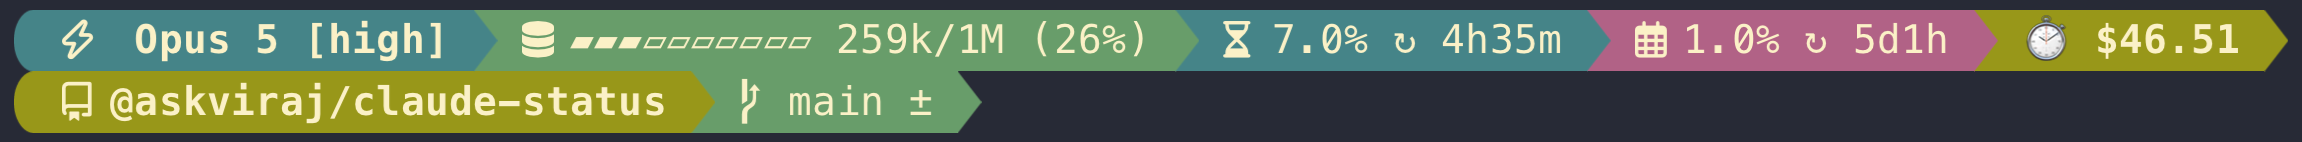
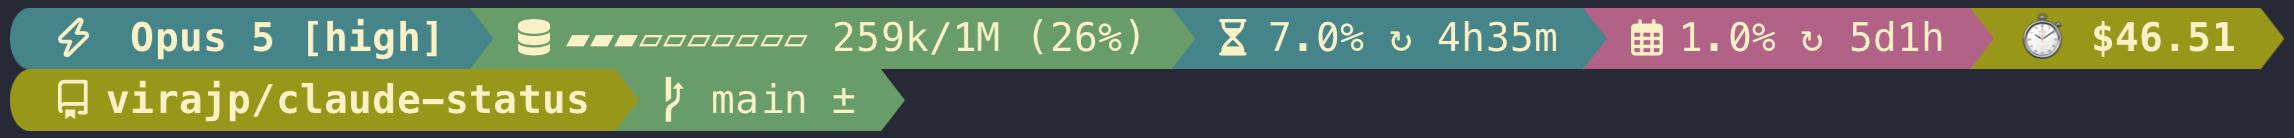
docs(site): use the re-rendered screenshot and point the readme at it
The hero image showed `@askviraj/claude-status` -- the npm scope retired two
cycles ago -- because it was captured before `.config/claude-status.json` was
corrected. Re-rendered by the maintainer and swapped into the site, the repo's
tracked `assets/` copy, and the readme.

The readme's URL also moves from `cdn.virajp.me` to `cdn.virajp.dev`: the old
host still serves the stale image, so leaving the link alone would have kept
the wrong picture on the most-read page in the repo.

Worth recording: the new render independently corroborates this cycle's `branch`
fix. It shows ` main ±` with no worktree glyph, which is what the corrected
documentation says an ordinary checkout draws -- and what the previous text,
the contract and `segments.rs`'s own comment all denied.

Also worth recording: `cdn.virajp.dev` resolves while the apex and
`claude-status.virajp.dev` do not, so the Cloudflare zone is live and already
serving a subdomain. Closing criterion 2 is a DNS record and two secrets, not a
from-scratch setup.

Claude-Session: https://claude.ai/code/session_019srMD3MVgMf534Tm44XYEh

diff --git a/docs/plans/2026-08-23-website/01-site.md b/docs/plans/2026-08-23-website/01-site.md
@@ -462,12 +462,20 @@ built two vacuous probes of its own before a control caught them.
   `@media` breakpoint, nav as plain anchors, no `<script>` — is verified in the
   *built* output, but it only says the page is not built in a way that
   guarantees failure on a phone.
-- **The hero screenshot still shows `@askviraj/claude-status`**, the retired npm
-  scope, on both the site and the readme. `.config/claude-status.json` was
-  corrected this cycle, so a re-render fixes it; the recipe is above and cannot
-  be automated (Nerd Font private-use glyphs, no headless renderer with that
-  font). A test asserts the file exists and is a real PNG; **nothing can assert
-  it is current.**
+- **The hero screenshot was re-rendered by the maintainer and is now correct** —
+  it reads `virajp/claude-status`, the npm scope is gone, and it independently
+  corroborates this round's `branch` fix by showing `main ±` with no worktree
+  glyph. Swapped into `site/static/`, the repo's tracked `assets/` copy, and the
+  readme, whose URL also moved from `cdn.virajp.me` to `cdn.virajp.dev` — the
+  old host still serves the stale image. **A test asserts the file exists and is
+  a real PNG; nothing can assert it is current**, and it cannot be regenerated
+  non-interactively (Nerd Font private-use glyphs, no headless renderer here has
+  the font). The recipe is above.
+- **`cdn.virajp.dev` resolves even though the apex and
+  `claude-status.virajp.dev` do not** — so the Cloudflare zone is live and
+  already serving a subdomain. Adding the `claude-status` record is a small step
+  rather than a from-scratch setup, which lowers the cost of closing
+  criterion 2.
 - **The readme now routes all user documentation through five links to a domain
   that does not resolve.** Recorded as a scope consequence rather than a defect,
   but the cost lands on users until a `site-v*` tag ships.

diff --git a/readme.md b/readme.md
@@ -13,7 +13,7 @@ date.
 effort, a context gauge at 259k/1M (26%), the 5-hour rate limit at 7.0% with
 4h35m to reset, the 7-day limit at 1.0% with 5d1h to reset, and $46.51 of
 session cost. The second shows the project name and the git branch with a dirty
-marker.](https://cdn.virajp.me/claude-status/statusline.png)
+marker.](https://cdn.virajp.dev/claude-status/statusline.png)
 
 ## Install
 
